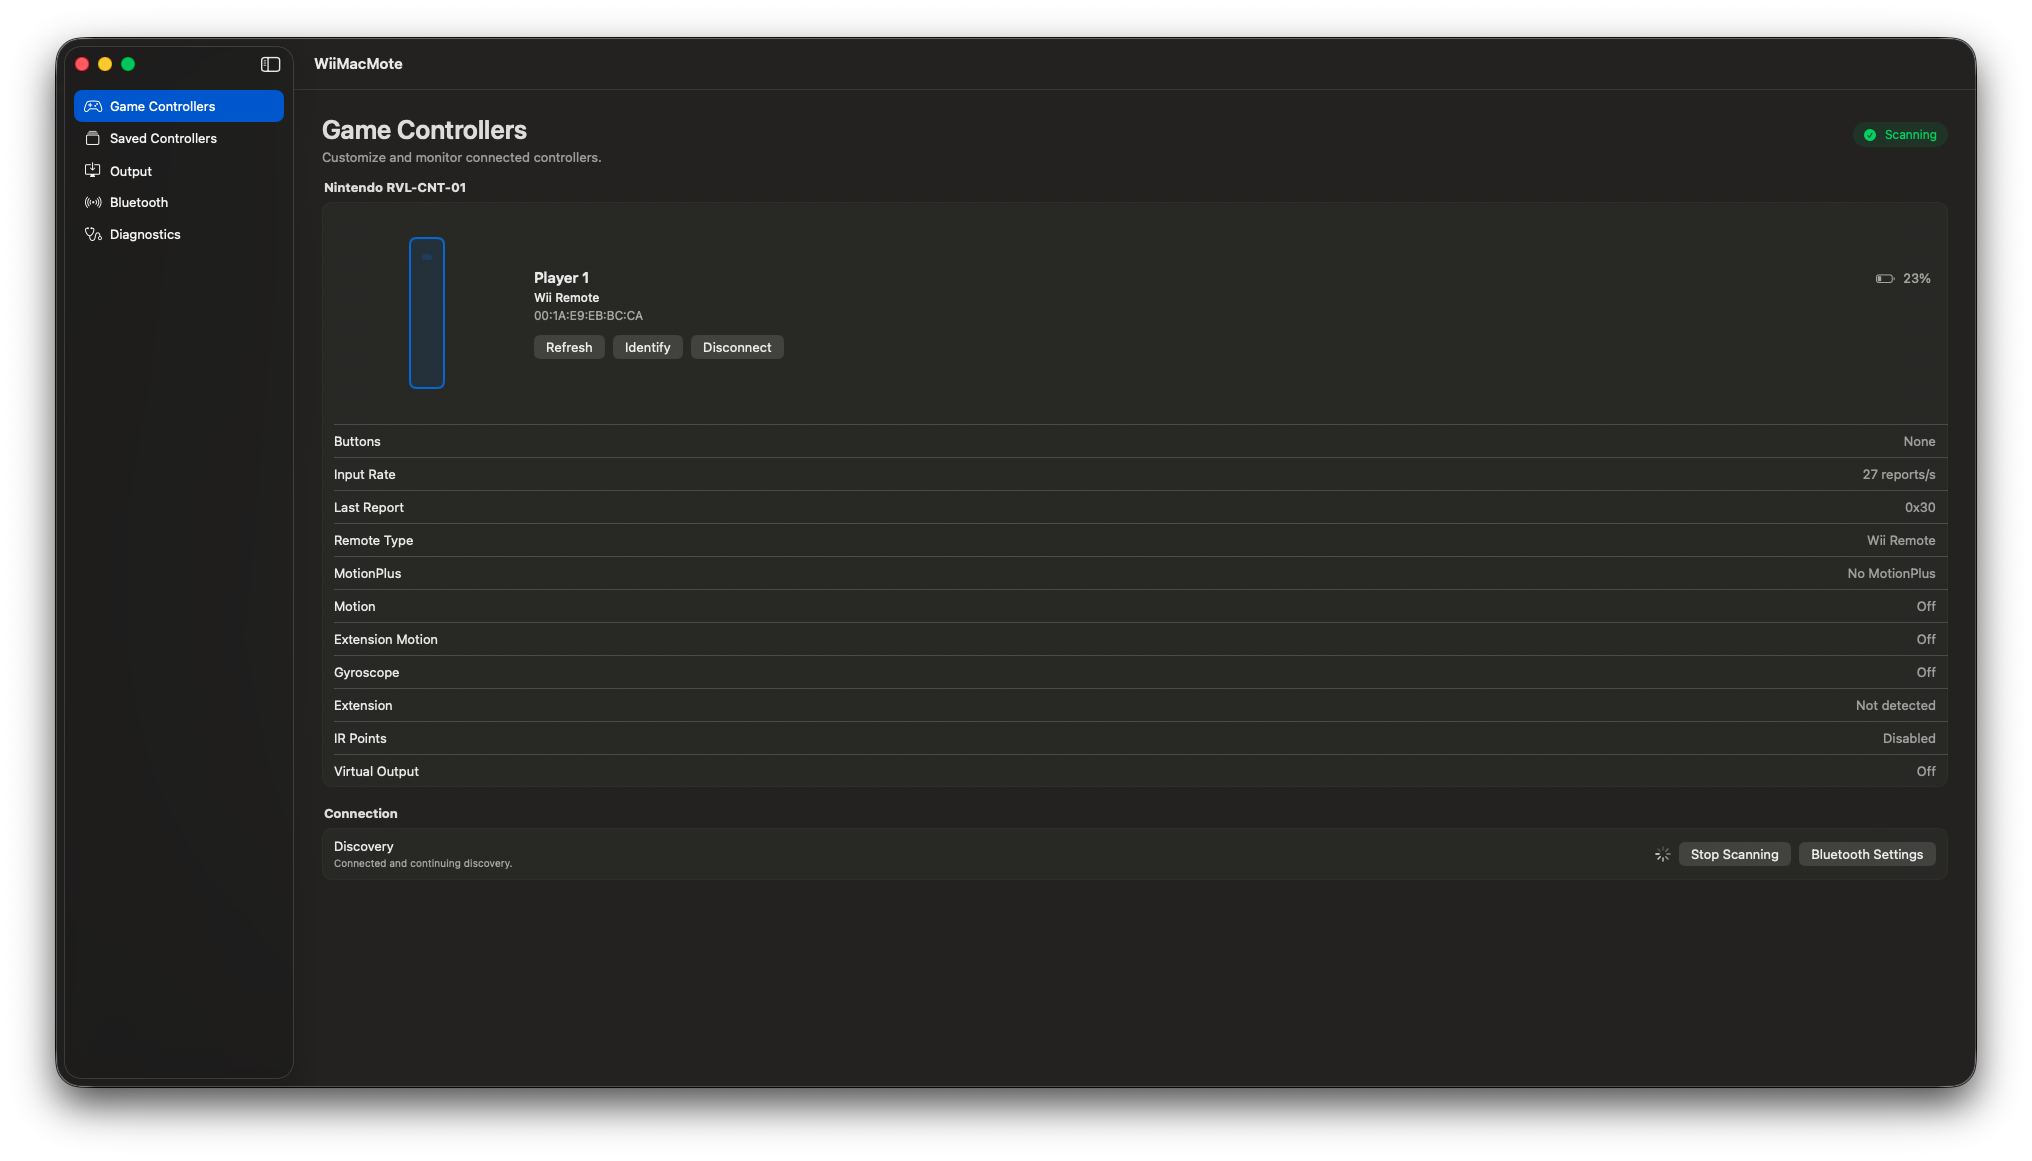
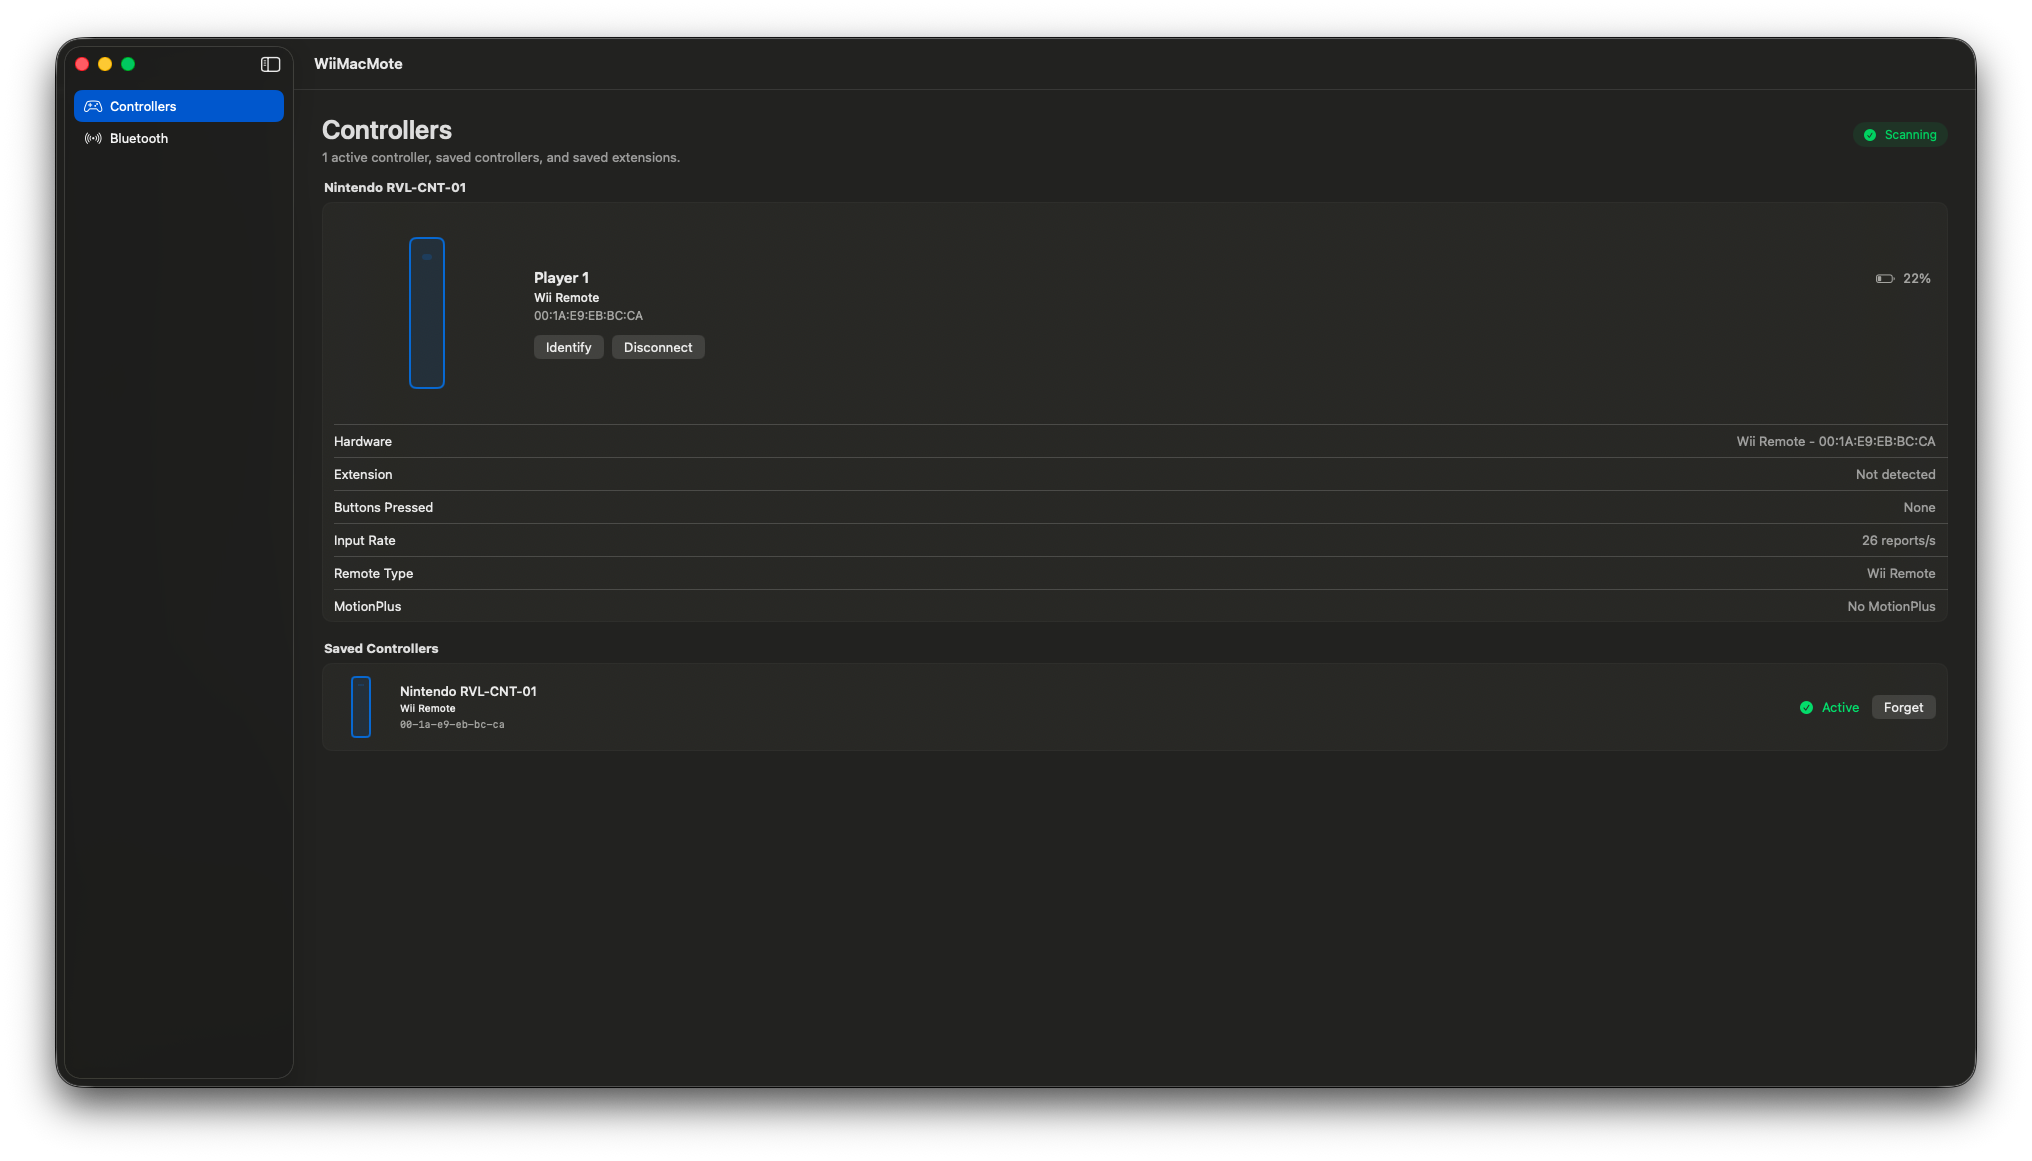
update readme

diff --git a/README.md b/README.md
@@ -1,48 +1,59 @@
 # WiiMacMote
 
-- WARNING: Mac OS does not allow for virtual HID creation unless the app is signed with appropriate permissions or SIP is disabled. This application is a proof of concept and is only useful for pairing Wii peripherals to modern Mac OS for other applications that natively support them such as Dolphin, or use with software that support generic devices including BTT, etc.
+WiiMacMote is a macOS utility for pairing and checking Nintendo Wii controllers over Bluetooth.
 
 ![Screenshot](screenshot.png "Screenshot")
 
-- macOS app for Nintendo Wii Remotes.
-- Pairs new controllers with the red SYNC button and reconnects saved Wii Remotes from face buttons.
-- Reads buttons, battery, LEDs, rumble, accelerometer, IR, MotionPlus, and common extensions.
-- Supports Wii Remote, Wii Remote Plus, Nunchuk, Classic Controller, Balance Board, Guitar, and TaTaCon paths.
-- Virtual HID output is experimental and requires Apple-restricted entitlement/signing support or SIP disabled.
+## Features
+
+- Pairs new Wii Remotes using the red SYNC button.
+- Reconnects saved Wii Remotes and Wii Fit Balance Boards from macOS Bluetooth.
+- Shows active controllers first, including buttons, battery, player LEDs, rumble, MotionPlus capability, and extension status.
+- Tracks saved controllers and saved extensions with local Forget controls.
+- Provides a Bluetooth page for pairing controls, current status, and diagnostic logs.
 
 ## Requirements
 
 - macOS 14 or newer.
 - Xcode 16 or newer.
 - Bluetooth-capable Mac.
-- Nintendo Wii Remote and/or Peripherals
+- Nintendo Wii Remote, Wii Remote Plus, Wii Fit Balance Board, or compatible Wii extension.
 
 ## Build
 
 - Open `WiiMacMote.xcodeproj`.
-- Select `WiiMacMote` and `My Mac`.
-- Build and run.
+- Select the `WiiMacMote` scheme and `My Mac` destination.
+- Build and run from Xcode.
 - Or run `./Scripts/build.sh`.
-- Local copied apps may need fresh ad-hoc signing for macOS Bluetooth permission.
-- Sign the installed app with `codesign --force --deep --sign - /Applications/WiiMacMote.app`.
-- Or run `./Scripts/build.sh --sign-installed`.
-- Run checks with `./Scripts/verify-source.sh`.
+- Run source checks with `./Scripts/verify-source.sh`.
 
-## Pair
+Local copied apps may need fresh ad-hoc signing for macOS Bluetooth permission:
 
+```sh
+codesign --force --deep --sign - /Applications/WiiMacMote.app
+```
+
+You can also run:
+
+```sh
+./Scripts/build.sh --sign-installed
+```
+
+## Pairing
+
+- Open the Bluetooth section.
 - Turn on `Scan`.
-- Press the red SYNC button behind the battery cover for first pairing.
-- For saved Wii Remotes, press a face button such as `1` or `2` while `Scan` is on.
-- Press the button again if the remote turns off or the LEDs stop blinking.
-- Connection can take a moment.
-- Cancel macOS `Connection Request` prompts from face-button presses until the remote is saved.
+- For a new Wii Remote, press the red SYNC button behind the battery cover.
+- For a saved Wii Remote, press a face button such as `1` or `2` while scanning is on.
+- For a Wii Fit Balance Board, press its power button while scanning is on.
+- Connection can take a moment while macOS exposes the HID service.
 
+## Controllers
 
-## Virtual Output
-
-- Standard builds are proof of concept for physical Wii Remote input and DSU output.
-- System-wide virtual HID output may fail without `com.apple.developer.hid.virtual.device`.
-- Local testing helper: `./Scripts/run-developer-lab.sh`.
+- Active controller cards appear at the top of the Controllers section.
+- Saved Controllers lists macOS-paired Wii controllers and provides Forget for removing the Bluetooth pairing.
+- Saved Extensions lists locally remembered extension records and provides Forget for removing only the saved app record.
 
 ## References
+
 - https://github.com/wiiuse/wiiuse